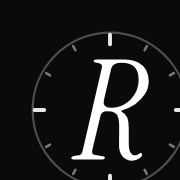
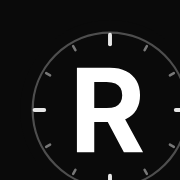
Sjednocení písma: jen Inter na celém webu, bez kurzívy
- Odstraněn Instrument Serif (nadpisy, logo, marquee, čísla, 404, GDPR)
- Nadpisy Inter SemiBold s těsným prostrkáním, zvýraznění šedou místo kurzívy
- Nové logo R a wordmark RETRO/VYKUP z Inter, přegenerovaný favicon, ikony a og.png
- Preload písma pro rychlejší vykreslení, menší stažená data
- Oprava zalamování textu v CTA tlačítkách

Claude-Session: https://claude.ai/code/session_018xVfVsJKPsHNQKo2b1Q4vg

Changed region(s): [[0.3889, 0.3056, 0.8333, 0.9167]]

diff --git a/src/data/brand.ts b/src/data/brand.ts
@@ -1,12 +1,12 @@
 /**
  * 🎨 Brand Retrovykup
- * Značka: černý kruh = ciferník (čas, historie), kurzivní serifové „R“ = elegance starožitností.
+ * Značka: černý kruh = ciferník (čas, historie), tučné „R“ z Inter = moderní a čitelné.
  * Barvy: Ink #0a0a0a · Paper #ffffff · Mist #f4f4f4 · Line #e6e6e6 · Muted #6b6b6b
- * Písma: Instrument Serif (nadpisy, kurzíva) · Inter (text, UI)
+ * Písmo: jediné — Inter (nadpisy SemiBold/Bold s těsným prostrkáním, text Regular)
  */
 export const brand = {
-  /** Kurzivní „R“ z Instrument Serif, vycentrované v boxu 64×64 */
-  rPath: 'M39.85 50Q37.78 50 36.47 48.52Q35.16 47.04 35.21 44.37L35.26 38.89Q35.31 36.22 34.96 34.84Q34.62 33.46 33.68 32.96Q32.74 32.47 30.91 32.47Q29.83 32.47 29.31 32.86Q28.79 33.26 28.59 34.1L25.73 46.1Q25.48 47.14 25.78 47.53Q26.07 47.93 27.31 48.12L29.48 48.42Q30.17 48.47 30.17 48.96Q30.17 49.56 29.38 49.56H18.91Q18.22 49.56 18.22 49.06Q18.22 48.52 19.21 48.37L20.2 48.22Q21.28 48.07 21.7 47.7Q22.12 47.33 22.32 46.3L29.04 17.26Q29.28 16.22 29.04 15.88Q28.79 15.53 27.8 15.33L26.81 15.14Q26.17 14.99 26.17 14.59Q26.17 14 27.06 14H37.09Q40 14 41.93 15.04Q43.85 16.07 44.81 17.8Q45.78 19.53 45.78 21.6Q45.78 24.22 44.44 26.35Q43.11 28.47 40.96 29.93Q38.81 31.38 36.35 32.07Q36.05 32.12 36.02 32.35Q36 32.57 36.3 32.72Q37.68 33.46 38.17 34.79Q38.67 36.12 38.67 38.35V43.38Q38.67 46.1 39.26 47.11Q39.85 48.12 40.89 48.12Q41.28 48.12 41.58 48Q41.88 47.88 42.37 47.53Q42.77 47.19 43.09 47.33Q43.41 47.48 43.41 47.88Q43.41 48.57 42.37 49.28Q41.33 50 39.85 50ZM32.64 31.23Q35.11 31.23 37.28 29.9Q39.46 28.57 40.81 26.3Q42.17 24.02 42.17 21.21Q42.17 18.44 40.81 16.84Q39.46 15.23 36.1 15.23Q32.94 15.23 32.44 17.21L29.83 28.52Q29.19 31.23 32.64 31.23Z',
+  /** „R“ z písma Inter Bold, vycentrované v boxu 64×64 */
+  rPath: 'M20.24 47V17H31.95Q35.36 17 37.76 18.21Q40.15 19.42 41.42 21.61Q42.68 23.81 42.68 26.76Q42.68 29.73 41.4 31.87Q40.12 34.01 37.69 35.16Q35.26 36.3 31.8 36.3H23.88V31.32H30.83Q32.71 31.32 33.92 30.8Q35.14 30.29 35.74 29.28Q36.34 28.26 36.34 26.76Q36.34 25.24 35.74 24.2Q35.14 23.16 33.92 22.61Q32.7 22.07 30.81 22.07H26.4V47ZM36.93 47 29.64 33.35H36.3L43.76 47Z',
   ink: '#0a0a0a',
   paper: '#ffffff',
   tagline: 'Výkup starožitností po celé ČR',

diff --git a/src/styles/global.css b/src/styles/global.css
@@ -1,11 +1,8 @@
 @import 'tailwindcss';
 @import '@fontsource-variable/inter';
-@import '@fontsource/instrument-serif/400.css';
-@import '@fontsource/instrument-serif/400-italic.css';
 
 @theme {
   --font-sans: 'Inter Variable', ui-sans-serif, system-ui, -apple-system, 'Segoe UI', sans-serif;
-  --font-display: 'Instrument Serif', ui-serif, Georgia, serif;
 
   --color-ink: #0a0a0a;
   --color-paper: #ffffff;
@@ -97,7 +94,7 @@
   @apply text-xs font-semibold tracking-[0.2em] text-muted uppercase;
 }
 @utility h-display {
-  @apply font-display leading-[0.95] tracking-tight;
+  @apply font-sans leading-[1.02] font-semibold tracking-[-0.035em] text-balance;
 }
 
 /* Formulářové prvky */
@@ -107,6 +104,12 @@
 }
 @utility label {
   @apply mb-2 block text-sm font-medium;
+}
+
+/* Zvýraznění v nadpisech: bez kurzívy, jen tlumenější barva (jedno písmo na celém webu) */
+:is(h1, h2, h3, .h-display) em {
+  font-style: normal;
+  color: color-mix(in srgb, currentColor 48%, transparent);
 }
 
 /* Šipka v tlačítku se při hoveru posune */
